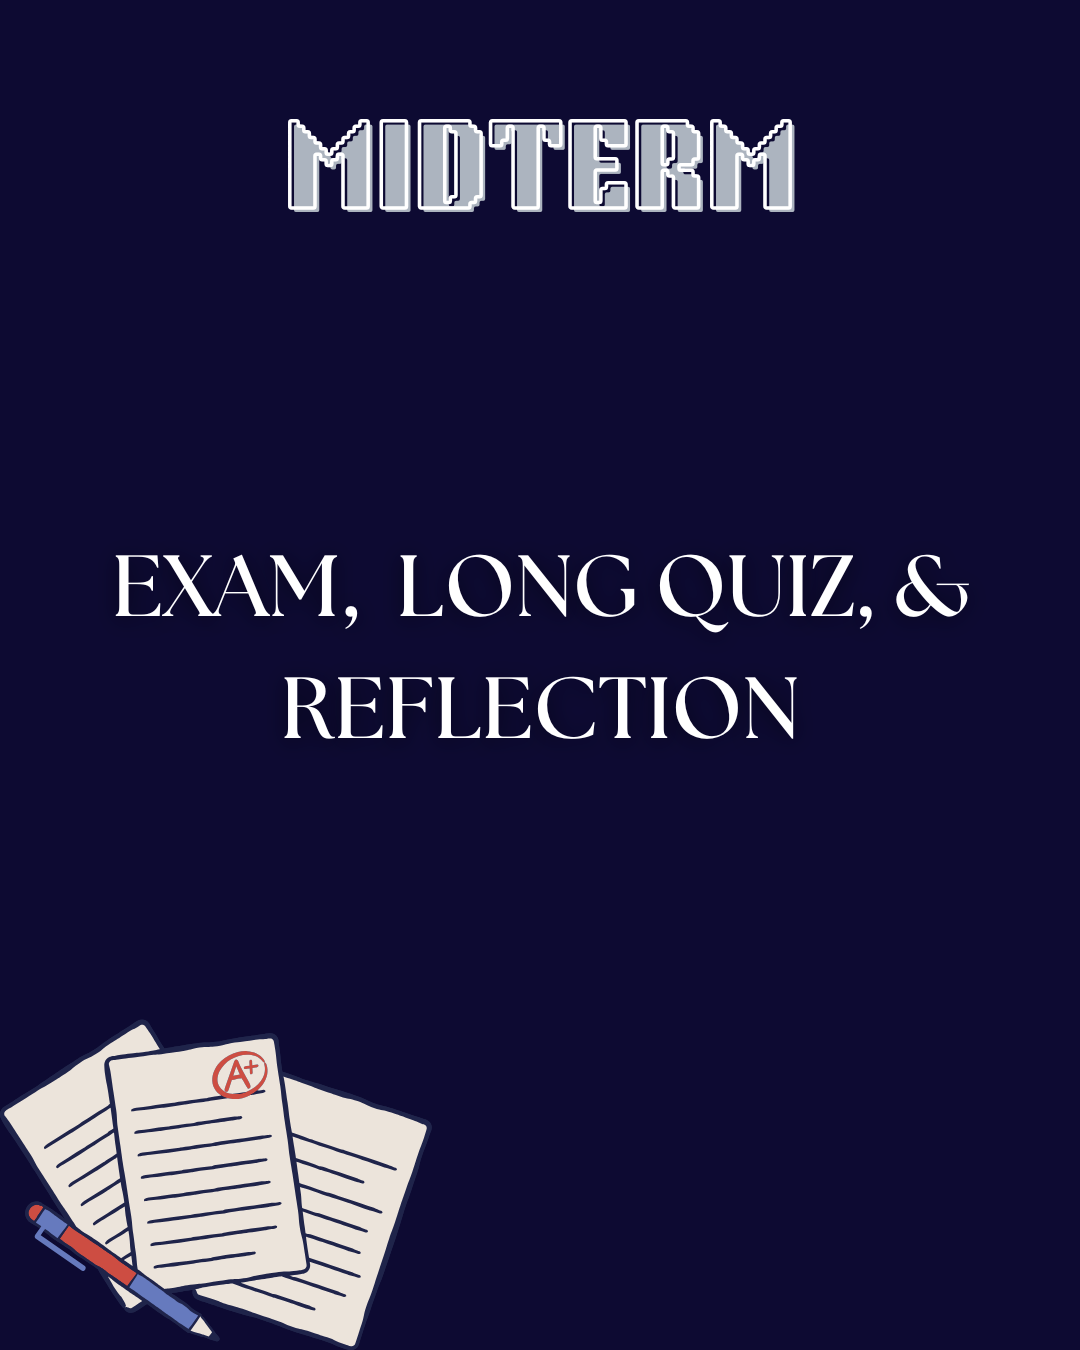
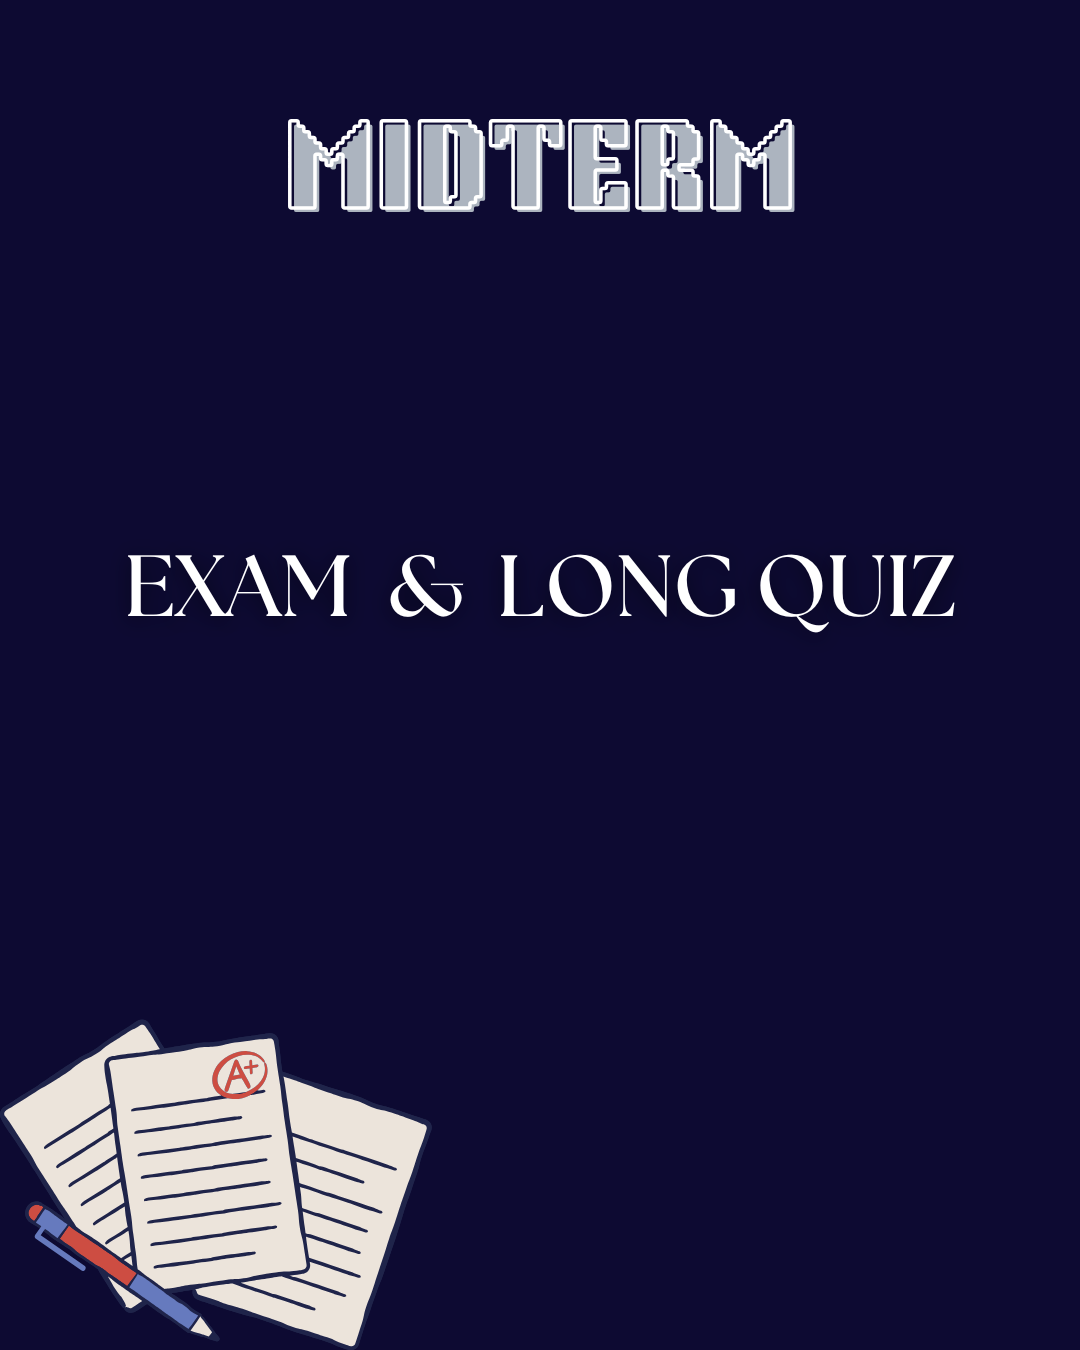
final update

Changed region(s): [[0.3667, 0.4044, 0.9167, 0.4667], [0.2444, 0.4978, 0.7333, 0.56], [0.0917, 0.4044, 0.3361, 0.4667]]

diff --git a/index.html b/index.html
@@ -302,7 +302,10 @@
             </div>
 
             <div class="row mt-4">
-                <h4 class="text-center fw-bold text-white mb-4">AMORE BOOKSHOP</h4>
+                <h4 class="text-center fw-bold text-white mb-3">AMORE BOOKSHOP</h4>
+
+                <a href="https://github.com/sachiicxz/amore_bookshop" target="_blank" class="code mb-3">View Source
+                    Code</a>
 
                 <!-- Bootstrap Carousel with Labels -->
                 <div id="projectCarousel" class="carousel slide animate__animated animate__fadeInLeft"
@@ -316,6 +319,12 @@
                             aria-label="Project 3"></button>
                         <button type="button" data-bs-target="#projectCarousel" data-bs-slide-to="3"
                             aria-label="Project 4"></button>
+                        <button type="button" data-bs-target="#projectCarousel" data-bs-slide-to="4"
+                            aria-label="Project 5"></button>
+                        <button type="button" data-bs-target="#projectCarousel" data-bs-slide-to="5"
+                            aria-label="Project 6"></button>
+                        <button type="button" data-bs-target="#projectCarousel" data-bs-slide-to="6"
+                            aria-label="Project 7"></button>
                     </div>
 
                     <div class="carousel-inner">
@@ -336,7 +345,15 @@
                         </div>
 
                         <div class="carousel-item">
-                            <img src="projects/amorelogin.png" class="d-block w-100" alt="Project 3">
+                            <img src="projects/forgotsent.png" class="d-block w-100" alt="Project 3">
+                            <div class="carousel-caption d-md-block">
+                                <h5 class="text-black fw-bold">Amore Bookshop</h5>
+                                <p class="text-black fw-bold">Forgot Password Page</p>
+                            </div>
+                        </div>
+
+                        <div class="carousel-item">
+                            <img src="projects/amorelogin.png" class="d-block w-100" alt="Project 4">
                             <div class="carousel-caption  d-md-block">
                                 <h5 class="text-black fw-bold">Amore Bookshop</h5>
                                 <p class="text-black fw-bold">Login Page</p>
@@ -344,10 +361,27 @@
                         </div>
 
                         <div class="carousel-item">
-                            <img src="projects/amorehome.png" class="d-block w-100" alt="Project 4">
+                            <img src="projects/amorehome.png" class="d-block w-100" alt="Project 5">
                             <div class="carousel-caption d-md-block">
                                 <h5 class="text-black fw-bold">Amore Bookshop</h5>
                                 <p class="text-black fw-bold">Home Page</p>
+                            </div>
+                        </div>
+
+
+                        <div class="carousel-item">
+                            <img src="projects/readlist.png" class="d-block w-100" alt="Project 6">
+                            <div class="carousel-caption d-md-block">
+                                <h5 class="text-black fw-bold">Amore Bookshop</h5>
+                                <p class="text-black fw-bold">Readlist Page</p>
+                            </div>
+                        </div>
+
+                        <div class="carousel-item">
+                            <img src="projects/contact&footer.png" class="d-block w-100" alt="Project 7">
+                            <div class="carousel-caption d-md-block">
+                                <h5 class="text-black fw-bold">Amore Bookshop</h5>
+                                <p class="text-black fw-bold">Contact Page</p>
                             </div>
                         </div>
                     </div>
@@ -369,6 +403,12 @@
 
             <div class="works">
                 <h4 class="text-center fw-bold text-white mb-4">ARIVELI PETSHOP</h4>
+
+                <div class="text-center mb-3">
+                    <a href="https://github.com/sachiicxz/ariveli_petshop" target="_blank" class="code">View Source
+                        Code</a>
+                </div>
+
                 <!-- Bootstrap Carousel with Labels -->
                 <div id="projectCarouselTwo" class="carousel slide animate__animated animate__fadeInLeft"
                     data-bs-ride="carousel">
@@ -420,6 +460,78 @@
                     </button>
                 </div>
             </div>
+
+            <div class="to-do-list">
+                <h4 class="text-center fw-bold text-white mb-4">ACCESSIBLE TO-DO LIST</h4>
+
+                <div class="text-center mb-3">
+                    <a href="https://github.com/sachiicxz/Accessible_Web_Project" target="_blank" class="code">View
+                        Source
+                        Code</a>
+                </div>
+
+                <!-- Bootstrap Carousel with Labels -->
+                <div id="projectCarouselThree" class="carousel slide animate__animated animate__fadeInLeft"
+                    data-bs-ride="carousel">
+                    <div class="carousel-indicators">
+                        <button type="button" data-bs-target="#projectCarouselTwo" data-bs-slide-to="0" class="active"
+                            aria-current="true" aria-label="Project 1"></button>
+                        <button type="button" data-bs-target="#projectCarouselTwo" data-bs-slide-to="1"
+                            aria-label="Project 2"></button>
+                        <button type="button" data-bs-target="#projectCarouselTwo" data-bs-slide-to="2"
+                            aria-label="Project 3"></button>
+                        <button type="button" data-bs-target="#projectCarouselTwo" data-bs-slide-to="3"
+                            aria-label="Project 4"></button>
+                    </div>
+
+                    <div class="carousel-inner">
+                        <div class="carousel-item active">
+                            <img src="projects/accHome.png" class="d-block w-100" alt="Project 1">
+                            <div class="carousel-caption d-md-block">
+                                <h5 class="text-black fw-bold">Accessible Web Project</h5>
+                                <p class="text-black fw-bold">Home Page</p>
+                            </div>
+                        </div>
+
+                        <div class="carousel-item">
+                            <img src="projects/accAddTask.png" class="d-block w-100" alt="Project 2">
+                            <div class="carousel-caption d-md-block">
+                                <h5 class="text-black fw-bold">Accessible Web Project</h5>
+                                <p class="text-black fw-bold">Add Task Page</p>
+                            </div>
+                        </div>
+
+                        <div class="carousel-item">
+                            <img src="projects/accAddedTask.png" class="d-block w-100" alt="Project 3">
+                            <div class="carousel-caption d-md-block">
+                                <h5 class="text-black fw-bold">Accessible Web Project</h5>
+                                <p class="text-black fw-bold">Added Task</p>
+                            </div>
+                        </div>
+
+                        <div class="carousel-item">
+                            <img src="projects/accAdd.png" class="d-block w-100" alt="Project 4">
+                            <div class="carousel-caption d-md-block">
+                                <h5 class="text-black fw-bold">Accessible Web Project</h5>
+                                <p class="text-black fw-bold">Added Task</p>
+                            </div>
+                        </div>
+                    </div>
+
+                    <button class="carousel-control-prev" type="button" data-bs-target="#projectCarouselThree"
+                        data-bs-slide="prev">
+                        <span class="carousel-control-prev-icon" aria-hidden="true"></span>
+                        <span class="visually-hidden">Previous</span>
+                    </button>
+
+                    <button class="carousel-control-next" type="button" data-bs-target="#projectCarouselThree"
+                        data-bs-slide="next">
+                        <span class="carousel-control-next-icon" aria-hidden="true"></span>
+                        <span class="visually-hidden">Next</span>
+                    </button>
+                </div>
+            </div>
+        </div>
     </section>
 
     <!--skills section-->

diff --git a/exams.html b/exams.html
@@ -51,8 +51,7 @@
 
                 <div class="row mb-3">
                     <div class="EXAM mt-4">
-                        <a href="PDF/EXAMPDF.pdf" download="EXAM-PDF.pdf"
-                            class="btn-primary">Download PDF</a>
+                        <a href="PDF/EXAMPDF.pdf" download="EXAM-PDF.pdf" class="btn-primary">Download PDF</a>
                     </div>
                 </div>
             </div>
@@ -88,26 +87,20 @@
                 </div>
 
                 <div class="row mt-2">
-                    <div class="col-4 md-4">
+                    <div class="col-6 md-4">
                         <div class="card" data-bs-toggle="modal" data-bs-target="#imageModal4" id="LQ1-card">
                             <div class="card-header">LONG QUIZ</div>
                             <img src="quizzes/LQ1.jpg" class="card-img-top" alt="pre-test">
                         </div>
                     </div>
 
-                    <div class="col-4 md-4">
+                    <div class="col-6 md-4">
                         <div class="card" data-bs-toggle="modal" data-bs-target="#imageModal5" id="LQ.1-card">
                             <div class="card-header">LONG QUIZ</div>
                             <img src="quizzes/LQ.1.jpg" class="card-img-top" alt="pre-test">
                         </div>
                     </div>
 
-                    <div class="col-4 md-4">
-                        <div class="card" data-bs-toggle="modal" data-bs-target="#imageModal6" id="reflection-card">
-                            <div class="card-header">REFLECTION</div>
-                            <img src="quizzes/PDFSS.png" class="card-img-top" alt="REFLECTION">
-                        </div>
-                    </div>
                 </div>
             </div>
 
@@ -182,26 +175,6 @@
                         </div>
                         <div class="modal-body">
                             <img src="quizzes/LQ.1.jpg" class="img-fluid rounded" alt="Full-size Image">
-                        </div>
-                    </div>
-                </div>
-            </div>
-
-            <div class="modal fade" id="imageModal6" tabindex="-1" aria-labelledby="imageModalLabel" aria-hidden="true">
-                <div class="modal-dialog modal-dialog-centered">
-                    <div class="modal-content">
-                        <div class="modal-header">
-                            <h5 class="modal-title" id="imageModalLabel">REFLECTION PREVIEW</h5>
-                            <button type="button" class="btn-close btn-close-white" data-bs-dismiss="modal"
-                                aria-label="Close"></button>
-                        </div>
-                        <div class="modal-body">
-                            <img src="quizzes/PDFSS.png" class="img-fluid rounded" alt="Full-size Image">
-
-                            <div class="reflection-card mt-4">
-                                <a href="PDF/PORTFOLIO_REFLECTION.pdf" download="PORTFOLIO_REFLECTION.pdf"
-                                    class="btn-primary">Download PDF</a>
-                            </div>
                         </div>
                     </div>
                 </div>

diff --git a/css/main.css b/css/main.css
@@ -366,12 +366,26 @@ section {
     background-color: #1a1a2e;
 }
 
+
+.code {
+    text-decoration: none;
+    text-align: center;
+}
+
+.to-do-lidt{
+
+}
 #projectCarousel {
     max-height: 500px;
     object-fit: contain;
 }
 
 #projectCarouselTwo {
+    max-height: 800px;
+    object-fit: contain;
+}
+
+#projectCarouselThree {
     max-height: 800px;
     object-fit: contain;
 }
@@ -614,7 +628,7 @@ section {
     flex-wrap: wrap;
     margin-top: 10%;
     justify-content: center;
-    gap: 5px; 
+    gap: 5px;
 }
 
 /* Cards Styling */
@@ -625,7 +639,7 @@ section {
 }
 
 .card-container .card {
-    width: 14rem; 
+    width: 14rem;
 }
 
 /* Media Query for smaller screens */

diff --git a/css/style.css b/css/style.css
@@ -117,6 +117,9 @@
     object-fit: contain;
 }
 
+.btn-primary{
+    text-decoration: none;
+}
 .carousel-caption {
     font-size: 0.8rem;
 }
